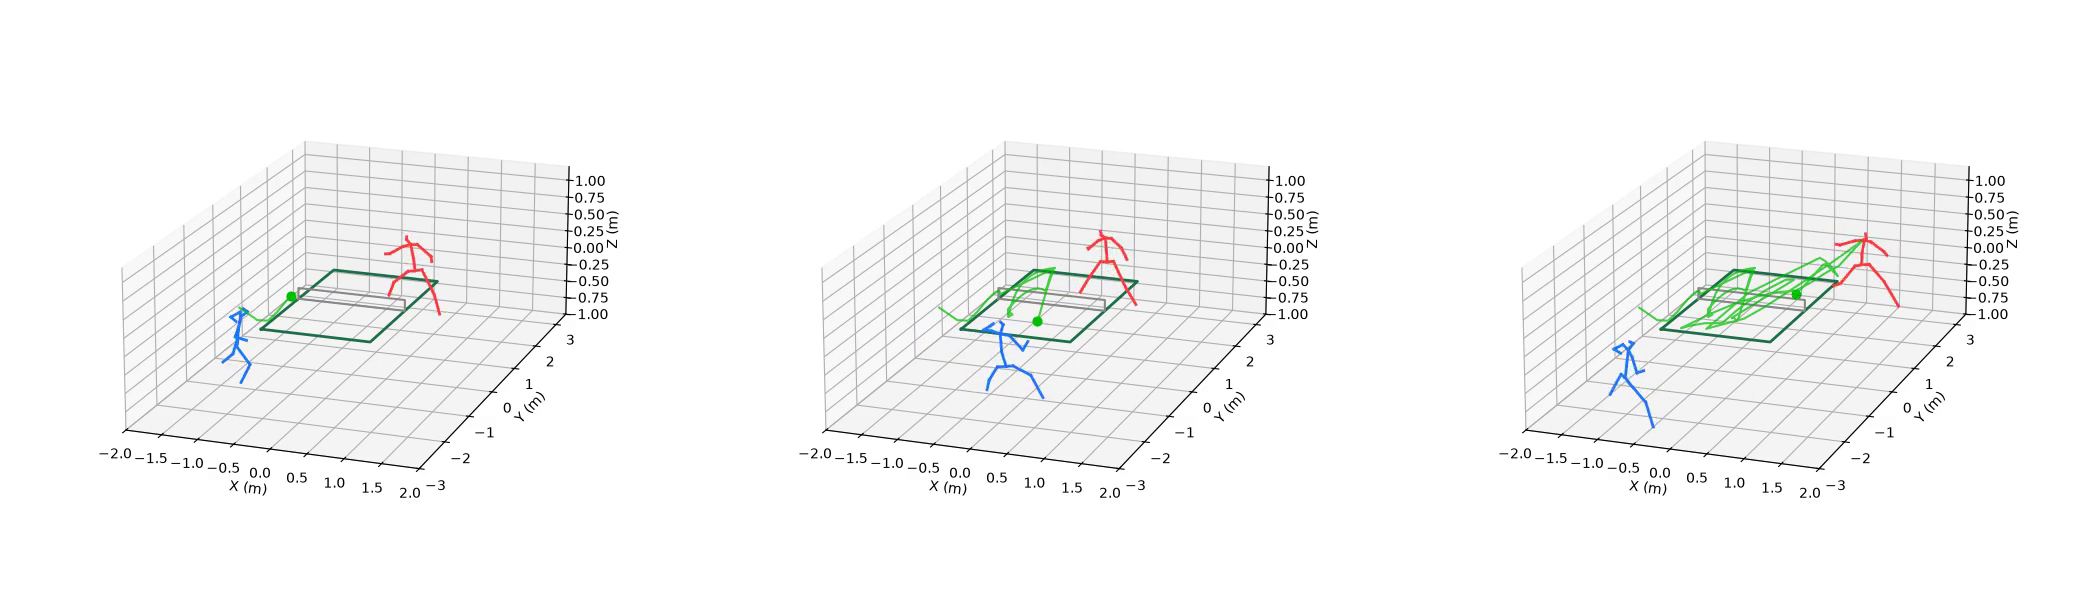
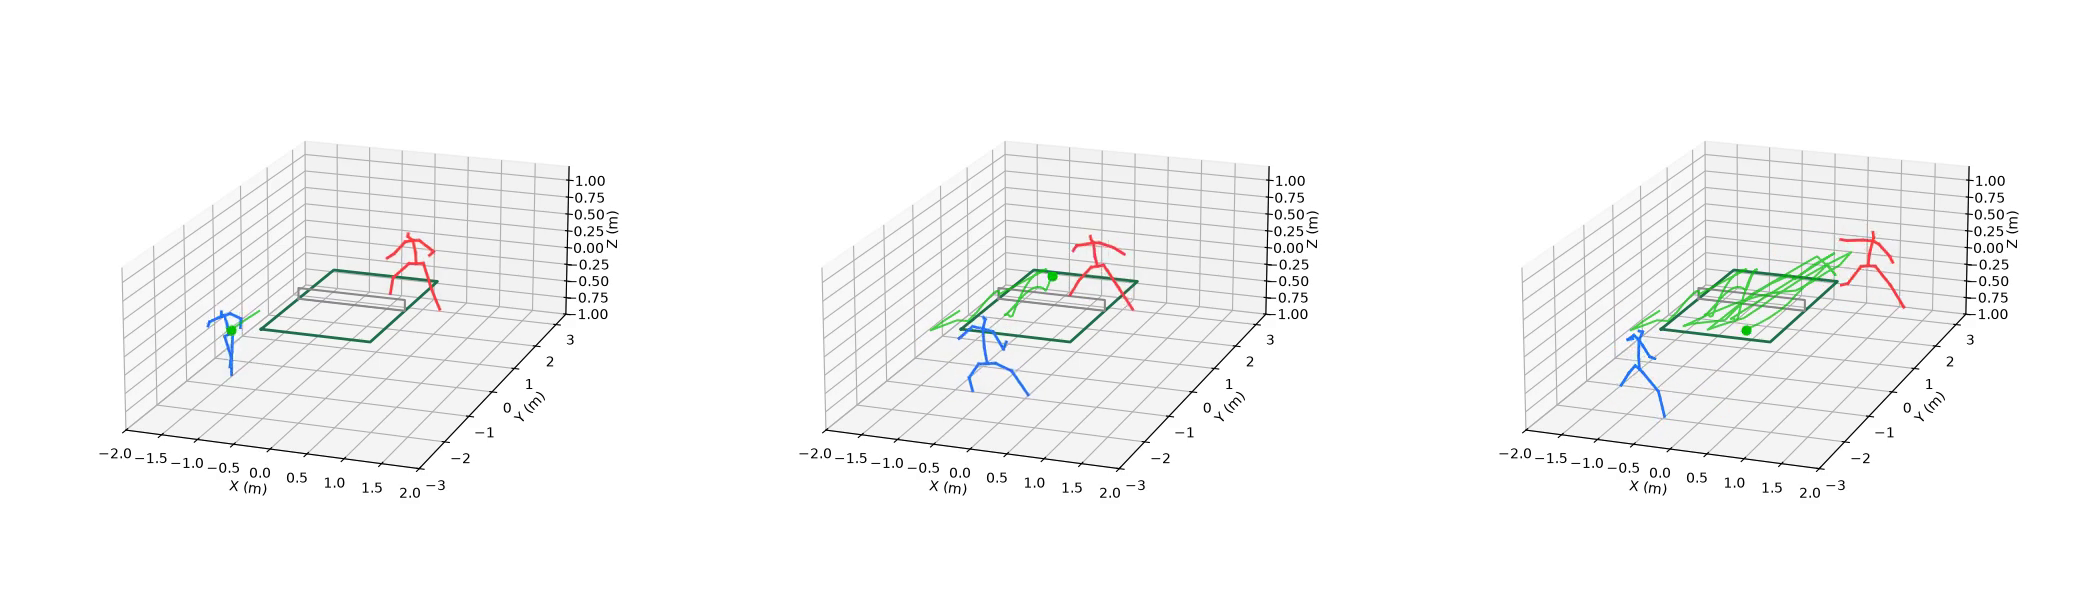
patch: guard short-segment plot polyfit in rally.py; refresh 3D scene samples
Denser bridged ball tracks can yield flight segments shorter than the
3-parameter plot polynomial, crashing scipy before reconstruction. Skip
plotting those segments. r0009/r0013/r0035 re-rendered with improved
tracking (0.97/0.95/1.00 coverage, all with 3D trajectories).

diff --git a/scripts/patch_upstream.py b/scripts/patch_upstream.py
@@ -33,6 +33,16 @@ def patch_rally() -> None:
         "(all_idx * 25).astype(np.uint8)",
         "(all_idx * fps).astype(np.int64)",
     )
+    # The per-segment plotting block curve_fits a 3-param polynomial; segments
+    # shorter than that crash scipy before the actual reconstruction runs.
+    src = src.replace(
+        "    for i in range(len(q_sol) - 1):\n"
+        "        t_temp = np.linspace(ts_exact[i], ts_exact[i + 1], 10)",
+        "    for i in range(len(q_sol) - 1):\n"
+        "        if q_sol[i + 1] - q_sol[i] < 4:\n"
+        "            continue  # patched: too few points to fit the plot polynomial\n"
+        "        t_temp = np.linspace(ts_exact[i], ts_exact[i + 1], 10)",
+    )
     if src != orig:
         f.write_text(src, encoding="utf-8")
         print("patched rally.py (fps + int64 index)")